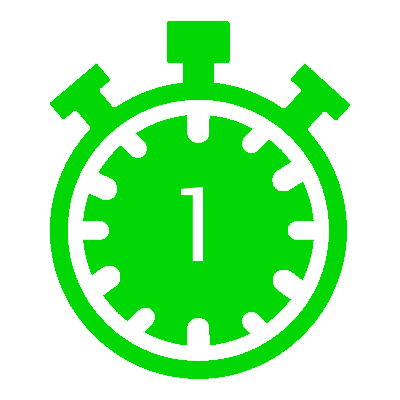
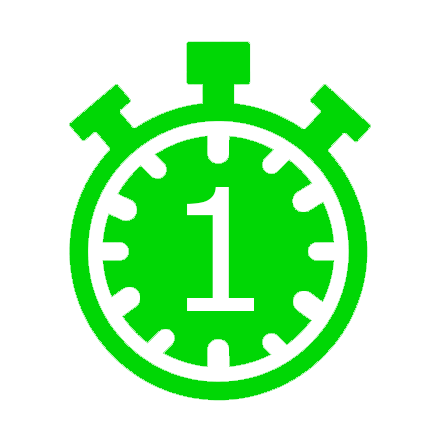
update

Changed region(s): [[0.12, 0.03, 0.87, 0.96], [0.42, 0.42, 0.6, 0.72]]

diff --git a/css/horizontal_waitingroom.css b/css/horizontal_waitingroom.css
@@ -237,7 +237,7 @@ body {
 }
 
 .fa-info-circle {
-    font-size: 4rem; /* Slightly larger than text */
+    font-size: 3.5rem; /* Slightly larger than text */
 }
 
 .info-container {
@@ -245,6 +245,11 @@ body {
     align-items: center;
     gap: 10px; /* Space between the icon and the text */
 }
+
+[v-cloak] {
+    display: none;
+}
+
 
 
 

diff --git a/html/displayWaitingRoom.php b/html/displayWaitingRoom.php
@@ -13,15 +13,21 @@ $id = isset($_GET['id']) ? intval($_GET['id']) : 1;
     <script src="../js/vue.js"></script>
     <script src="../js/xml2json.js"></script>
     <link rel="stylesheet" href="https://cdnjs.cloudflare.com/ajax/libs/font-awesome/6.0.0-beta3/css/all.min.css">
+    <style>
+        [v-cloak] {
+            display: none !important;
+            background-color: black !important;
+        }
+    </style>
 </head>
-
 <body>
     <audio id="notificationSound" src="../media/Noti.mp3"></audio>
     <!-- Green vertical bar -->
     <div class="green-bar"></div>
+    <div id="preloader" style="position:fixed;top:0;left:0;width:100vw;height:100vh;background:black;z-index:9999;"></div>
     <!-- Content of the page -->
     <div id="app" class="content-container">
-        <div class="header" class="row">
+         <div class="header" class="row">
             <div class="label">{{ currentLabel }}</div>
             <!-- Page number -->
             <div class="page-number" v-if="sectionArr.length > 0">{{currentPage}}/{{sectionArr.length}}</div>
@@ -113,7 +119,8 @@ $id = isset($_GET['id']) ? intval($_GET['id']) : 1;
                     previousSectionIdx: 0,
                     time: '',
                     date: '',
-                    currentBanner: ''
+                    currentBanner: '',
+                    loaded: false
                 };
             },
             methods: {
@@ -383,7 +390,7 @@ $id = isset($_GET['id']) ? intval($_GET['id']) : 1;
                         this.changeLanguage();
                         this.setHeader();
                         this.setBanner();
-                    }, 1000); // 10 seconds
+                    }, 10000); // 10 seconds
                     setInterval(() => {
                         this.updateTime();
                     }, 30000);
@@ -398,6 +405,10 @@ $id = isset($_GET['id']) ? intval($_GET['id']) : 1;
                 this.setHeader();
                 this.setBanner();
                 this.updateTime();
+                setTimeout(() => {
+                    this.loaded = true;
+                    document.getElementById('preloader').style.display = 'none';
+                }, 100);
             },
             mounted() {
                 this.updateDataPeriodically();
